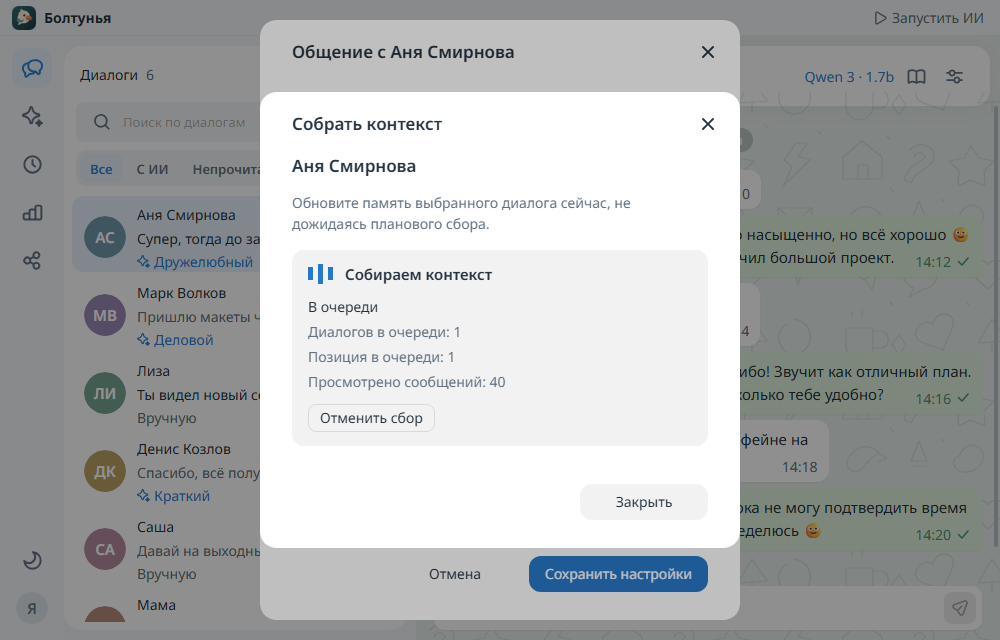
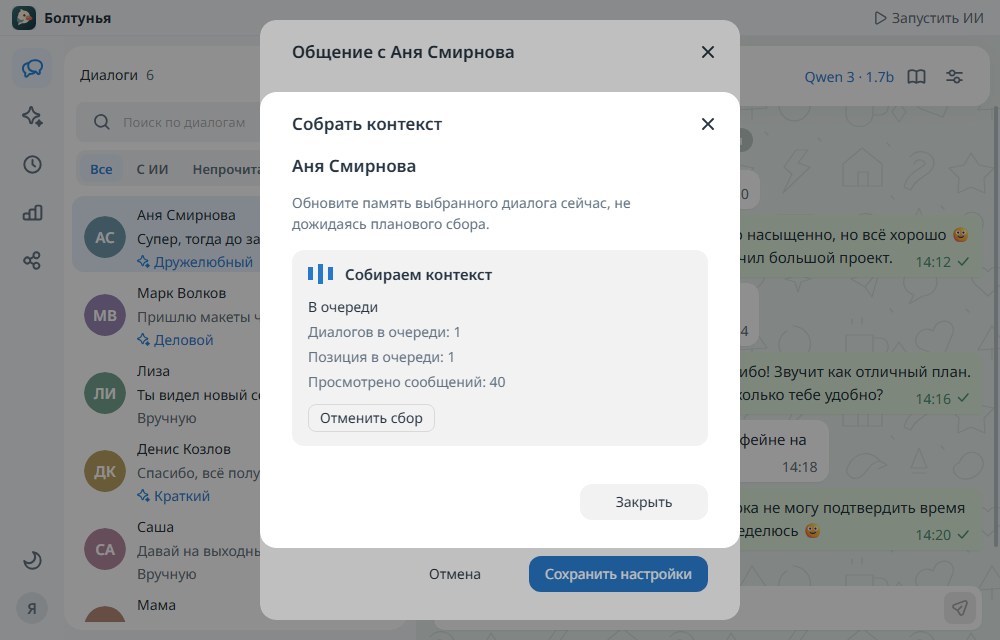
Keep wallpapers below conversation header

diff --git a/web/src/modules/workspace/Conversation/Conversation.tsx b/web/src/modules/workspace/Conversation/Conversation.tsx
@@ -213,112 +213,114 @@ export function Conversation({
                     </Button>
                 </Flex>
             </Flex>
-            <ChatWallpaper wallpaper={chat.wallpaper} />
-            <ScrollArea
-                viewportRef={scroll}
-                qa="conversation-messages"
-                className={styles.messages}
-                onScroll={() => {
-                    const el = scroll.current;
-                    if (el) {
-                        stick.current = el.scrollHeight - el.scrollTop - el.clientHeight < 100;
-                        if (el.scrollTop < 100) {
-                            void earlier();
+            <Flex direction="column" className={styles.body} qa="conversation-body">
+                <ChatWallpaper wallpaper={chat.wallpaper} />
+                <ScrollArea
+                    viewportRef={scroll}
+                    qa="conversation-messages"
+                    className={styles.messages}
+                    onScroll={() => {
+                        const el = scroll.current;
+                        if (el) {
+                            stick.current = el.scrollHeight - el.scrollTop - el.clientHeight < 100;
+                            if (el.scrollTop < 100) {
+                                void earlier();
+                            }
                         }
-                    }
-                }}
-            >
-                <Flex direction="column" className={styles.messageInner}>
-                    {loadingEarlier && (
-                        <Flex
-                            role="status"
-                            aria-label={t('loadingConversation')}
-                            className={styles.historyLoader}
-                        >
-                            <Loader size="s" />
-                        </Flex>
-                    )}
-                    {messages.map((message, index) => (
-                        <Fragment key={message.id}>
-                            {(index === 0 ||
-                                messageDay(message.date) !== messageDay(messages[index - 1].date)) && (
-                                <Text className={styles.date} qa="message-date">
-                                    {messageDay(message.date) === today
-                                        ? t('today')
-                                        : new Date(message.date * 1000).toLocaleDateString(locale, {
-                                              day: 'numeric',
-                                              month: 'long',
-                                          })}
-                                </Text>
-                            )}
-                            <MessageBubble
-                                message={message}
-                                nextMessage={messages[index + 1]}
-                                replyText={messages.find((item) => item.id === message.replyToId)?.text}
+                    }}
+                >
+                    <Flex direction="column" className={styles.messageInner}>
+                        {loadingEarlier && (
+                            <Flex
+                                role="status"
+                                aria-label={t('loadingConversation')}
+                                className={styles.historyLoader}
+                            >
+                                <Loader size="s" />
+                            </Flex>
+                        )}
+                        {messages.map((message, index) => (
+                            <Fragment key={message.id}>
+                                {(index === 0 ||
+                                    messageDay(message.date) !== messageDay(messages[index - 1].date)) && (
+                                    <Text className={styles.date} qa="message-date">
+                                        {messageDay(message.date) === today
+                                            ? t('today')
+                                            : new Date(message.date * 1000).toLocaleDateString(locale, {
+                                                  day: 'numeric',
+                                                  month: 'long',
+                                              })}
+                                    </Text>
+                                )}
+                                <MessageBubble
+                                    message={message}
+                                    nextMessage={messages[index + 1]}
+                                    replyText={messages.find((item) => item.id === message.replyToId)?.text}
+                                />
+                            </Fragment>
+                        ))}
+                        {messages.length === 0 && !error && (
+                            <Text className={styles.noHistory}>{t('noHistory')}</Text>
+                        )}
+                        {generating && (
+                            <Box className={[styles.bubble, styles.outgoing].join(' ')}>
+                                <ReplySkeleton />
+                            </Box>
+                        )}
+                    </Flex>
+                </ScrollArea>
+                <Box className={styles.composerArea}>
+                    {(error || localError) && <Text color="danger">{localError || error}</Text>}
+                    <Flex alignItems="flex-end" gap={2} className={styles.composer}>
+                        <Tooltip content={t('draft')}>
+                            <Button
+                                size="m"
+                                className={styles.composerButton}
+                                view="flat-secondary"
+                                loading={busy === 'draft'}
+                                disabled={!!busy}
+                                onClick={() => void draft()}
+                                aria-label={t('draft')}
+                            >
+                                <Icon data={Sparkles} size={19} />
+                            </Button>
+                        </Tooltip>
+                        {busy === 'draft' ? (
+                            <Skeleton className={styles.draftSkeleton} height={18} width="65%" />
+                        ) : (
+                            <TextArea
+                                view="clear"
+                                size="l"
+                                className={styles.input}
+                                value={text}
+                                disabled={busy === 'send'}
+                                onUpdate={setText}
+                                minRows={1}
+                                maxRows={5}
+                                placeholder={t('messagePlaceholder')}
+                                controlProps={{'aria-label': t('messagePlaceholder'), maxLength: 4096}}
+                                onKeyDown={(event) => {
+                                    if (event.key === 'Enter' && !event.shiftKey) {
+                                        event.preventDefault();
+                                        void send();
+                                    }
+                                }}
                             />
-                        </Fragment>
-                    ))}
-                    {messages.length === 0 && !error && (
-                        <Text className={styles.noHistory}>{t('noHistory')}</Text>
-                    )}
-                    {generating && (
-                        <Box className={[styles.bubble, styles.outgoing].join(' ')}>
-                            <ReplySkeleton />
-                        </Box>
-                    )}
-                </Flex>
-            </ScrollArea>
-            <Box className={styles.composerArea}>
-                {(error || localError) && <Text color="danger">{localError || error}</Text>}
-                <Flex alignItems="flex-end" gap={2} className={styles.composer}>
-                    <Tooltip content={t('draft')}>
+                        )}
                         <Button
+                            view="action"
                             size="m"
+                            loading={busy === 'send'}
+                            disabled={!text.trim() || !!busy}
+                            onClick={() => void send()}
+                            aria-label={t('send')}
                             className={styles.composerButton}
-                            view="flat-secondary"
-                            loading={busy === 'draft'}
-                            disabled={!!busy}
-                            onClick={() => void draft()}
-                            aria-label={t('draft')}
                         >
-                            <Icon data={Sparkles} size={19} />
+                            <Icon data={PaperPlane} size={18} />
                         </Button>
-                    </Tooltip>
-                    {busy === 'draft' ? (
-                        <Skeleton className={styles.draftSkeleton} height={18} width="65%" />
-                    ) : (
-                        <TextArea
-                            view="clear"
-                            size="l"
-                            className={styles.input}
-                            value={text}
-                            disabled={busy === 'send'}
-                            onUpdate={setText}
-                            minRows={1}
-                            maxRows={5}
-                            placeholder={t('messagePlaceholder')}
-                            controlProps={{'aria-label': t('messagePlaceholder'), maxLength: 4096}}
-                            onKeyDown={(event) => {
-                                if (event.key === 'Enter' && !event.shiftKey) {
-                                    event.preventDefault();
-                                    void send();
-                                }
-                            }}
-                        />
-                    )}
-                    <Button
-                        view="action"
-                        size="m"
-                        loading={busy === 'send'}
-                        disabled={!text.trim() || !!busy}
-                        onClick={() => void send()}
-                        aria-label={t('send')}
-                        className={styles.composerButton}
-                    >
-                        <Icon data={PaperPlane} size={18} />
-                    </Button>
-                </Flex>
-            </Box>
+                    </Flex>
+                </Box>
+            </Flex>
         </Flex>
     );
 }

diff --git a/web/tests/e2e/workspace.spec.ts b/web/tests/e2e/workspace.spec.ts
@@ -312,6 +312,46 @@ test('inset chat rows, search icon, readable text and message edges stay aligned
     await expect(page.getByText('Общается так, как удобно вам', {exact: true})).toHaveCount(0);
 });
 
+test('pattern and blurred photo wallpapers stay below the profile header at every window size', async ({
+    page,
+}) => {
+    await page.route('**/api/media/wallpaper-test', (route) =>
+        route.fulfill({
+            contentType: 'image/svg+xml',
+            body: '<svg xmlns="http://www.w3.org/2000/svg" width="100" height="100"><rect width="100" height="100" fill="#f00"/></svg>',
+        }),
+    );
+    for (const wallpaper of [
+        undefined,
+        {kind: 'wallpaper' as const, url: '/api/media/wallpaper-test', blurred: true},
+    ]) {
+        const state = structuredClone(workspaceState);
+        state.chats[0].wallpaper = wallpaper;
+        await page.route('**/api/state', (route) => route.fulfill({json: state}));
+        await page.reload();
+        await page.getByRole('button', {name: 'Аня Смирнова', exact: true}).click();
+        for (const width of [1440, 1000, 480]) {
+            await page.setViewportSize({width, height: 900});
+            await expect(page.locator('[data-qa="chat-wallpaper"]')).toBeAttached();
+            const offset = await page.evaluate(() => {
+                const header = document
+                    .querySelector('[data-qa="conversation-header"]')!
+                    .getBoundingClientRect();
+                const wallpaper = document
+                    .querySelector('[data-qa="chat-wallpaper"]')!
+                    .getBoundingClientRect();
+                return wallpaper.top - header.bottom;
+            });
+            expect(offset).toBeGreaterThanOrEqual(0);
+            await expect(page.locator('[data-qa="conversation-body"]')).toHaveCSS('overflow', 'hidden');
+        }
+        if (wallpaper) {
+            await expect(page.locator('[data-qa="chat-wallpaper"]')).toHaveCSS('filter', 'blur(8px)');
+        }
+        await page.setViewportSize({width: 1440, height: 900});
+    }
+});
+
 test('overlay scrollbar preserves content width and supports wheel and keyboard', async ({page}) => {
     const before = await page.locator('[data-qa="chat-row"]').first().boundingBox();
     const chats = Array.from({length: 80}, (_, index) => ({

diff --git a/web/tests/e2e/documentation.spec.ts b/web/tests/e2e/documentation.spec.ts
@@ -73,6 +73,12 @@ test('documents the workspace using synthetic conversations and verifies the ref
     const row = page.locator('[data-qa="chat-row"]').first();
     await expect(row).toHaveCSS('border-radius', '12px');
     await expect(page.locator('[data-qa="conversation-header"]')).toHaveCSS('border-radius', '16px');
+    const wallpaperOffset = await page.evaluate(() => {
+        const header = document.querySelector('[data-qa="conversation-header"]')!.getBoundingClientRect();
+        const wallpaper = document.querySelector('[data-qa="chat-wallpaper"]')!.getBoundingClientRect();
+        return wallpaper.top - header.bottom;
+    });
+    expect(wallpaperOffset).toBeGreaterThanOrEqual(0);
     expect(await page.evaluate(() => document.documentElement.scrollWidth <= innerWidth)).toBe(true);
     await page.screenshot({path: '../docs/resources/readme-chat-light.png', animations: 'disabled'});
 

diff --git a/web/src/modules/workspace/Conversation/Conversation.module.css b/web/src/modules/workspace/Conversation/Conversation.module.css
@@ -47,6 +47,14 @@
     min-height: 0;
 }
 
+.body {
+    flex: 1;
+    min-height: 0;
+    position: relative;
+    overflow: hidden;
+    isolation: isolate;
+}
+
 .messageInner {
     min-height: 100%;
     width: 100%;
@@ -97,7 +105,7 @@
 .messageText {
     font-size: 15px;
     line-height: 1.4;
-    font-family: 'Segoe UI Emoji', 'Apple Color Emoji', var(--g-font-family-sans);
+    font-family: inherit;
     display: inline;
     white-space: pre-wrap;
     overflow-wrap: anywhere;

diff --git a/web/src/modules/workspace/ChatWallpaper/ChatWallpaper.tsx b/web/src/modules/workspace/ChatWallpaper/ChatWallpaper.tsx
@@ -15,6 +15,7 @@ export function ChatWallpaper({wallpaper}: {readonly wallpaper?: Chat['wallpaper
     const plainFill = wallpaper?.kind === 'fill';
     return (
         <Box
+            qa="chat-wallpaper"
             className={styles.wallpaper}
             aria-hidden="true"
             style={{

diff --git a/web/src/modules/workspace/ConversationSkeleton/ConversationSkeleton.module.css b/web/src/modules/workspace/ConversationSkeleton/ConversationSkeleton.module.css
@@ -5,10 +5,11 @@
 }
 
 .header {
-    height: 56px;
+    height: 60px;
+    margin: 10px 10px 0;
+    border-radius: 16px;
     padding: 0 20px;
     background: var(--tiho-panel);
-    border-bottom: 1px solid var(--tiho-line);
     flex-shrink: 0;
 }
 

diff --git a/web/src/modules/workspace/ChatWallpaper/ChatWallpaper.module.css b/web/src/modules/workspace/ChatWallpaper/ChatWallpaper.module.css
@@ -1,6 +1,6 @@
 .wallpaper {
     position: absolute;
-    inset: 56px 0 0;
+    inset: 0;
     pointer-events: none;
     background-position: center;
 }
